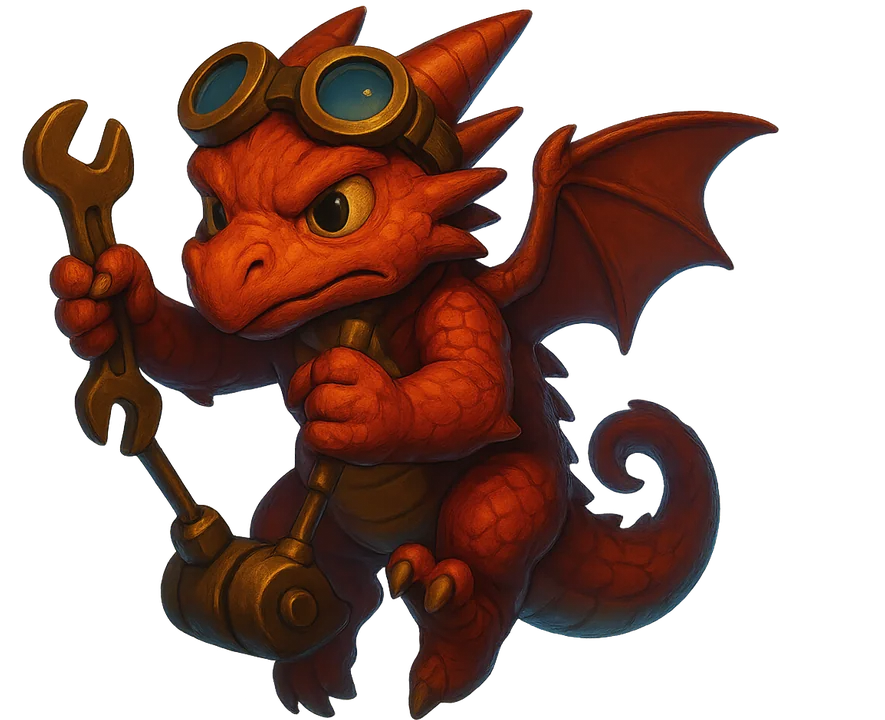
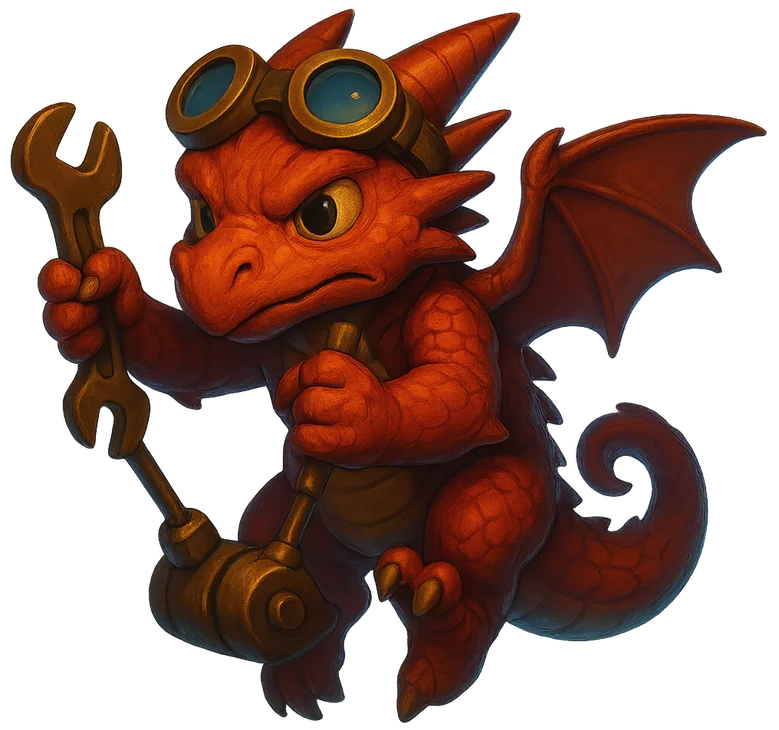
Hoardling: build 131a6abadc

diff --git a/hoardling/game.js b/hoardling/game.js
@@ -1979,6 +1979,14 @@
       // whole dragon was repainted ~40% brighter. They are in
       // art-src/wick_poses/ and did not ship.
       hero_man:  'art/hero_man.png',
+      // WING FRAMES for the manning flap. Generated by EDITING hero_man
+      // itself, so body, wrench, lean and lighting are identical between
+      // them and only the wings move -- then registered onto it (foot drift
+      // 0.0px). Three frames cycled is a flap; scaling one painted sprite
+      // non-uniformly is a squash, which is what shipped first and what
+      // VANUS rejected: "he looks like he's being squashed".
+      hero_man_dn: 'art/hero_man_dn.png',
+      hero_man_up: 'art/hero_man_up.png',
       hero_title: 'art/hero_title.png',
       t_mimic:   'art/tower_mimic.png',
       t_ballista:'art/tower_ballista.png',
@@ -3946,7 +3954,14 @@
       if (raw - dmg >= 2) Sfx.play('shave', e.id, { gain: 0.75, pri: 1 });
     }
     e.hp -= dmg;
-    e.flashT = 0.1;                       // white-flash + pop, read by the renderer only
+    // DO NOT STACK, AND KEEP IT SHORT. This reset to 0.1 on EVERY damage
+    // instance, and the renderer drew it at alpha min(1, flashT*9) = 0.9 white
+    // with a 9% size pop. A raider inside eight machines takes several hits a
+    // second, so it never stopped flashing -- VANUS: "the enemies as well,
+    // which is flashing and looks broken". A hit should punctuate, not strobe:
+    // max() rather than assign so rapid hits cannot re-arm a flash already
+    // running, and it is shorter and much softer below.
+    e.flashT = Math.max(e.flashT, 0.07);
     if (e.hp <= 0 && !e._counted) {
       e._counted = true;
       var idx = this.enemies.indexOf(e);
@@ -5796,7 +5811,7 @@
         // instant he becomes a target worth chasing
         face = -flip * Math.cos(Math.min(1, gg / 0.24) * Math.PI);
       }
-      if (e.flashT > 0) squash *= 1 + e.flashT * 0.9;                 // impact pop
+      if (e.flashT > 0) squash *= 1 + e.flashT * 0.35;                // impact pop, halved
       if (e.fleeing) hop *= 1 - 0.30 * Math.min(1, e.stolen / 8);     // laden: barely leaves the ground
       // BEAT 1b — the rear-back wind-up over the last 26 units before the hoard
       var lean = 0;
@@ -5830,7 +5845,7 @@
       }
       if (e.flashT > 0) {                       // white-flash: re-draw lighter
         ctx.globalCompositeOperation = 'lighter';
-        ctx.globalAlpha = Math.min(1, e.flashT * 9);
+        ctx.globalAlpha = Math.min(0.45, e.flashT * 5);   // a tint, not a strobe
         ctx.drawImage(img, -w0 / 2, -hh2, w0, hh2);
         ctx.globalAlpha = 1;
         ctx.globalCompositeOperation = 'source-over';
@@ -6010,9 +6025,21 @@
     var goingAway = hMoving2 && hdy2 < -Math.abs(hdx2) * 0.7;   // mostly up-screen
     // He is always drawn now -- a manned frame with no dragon in it was only
     // ever possible because the plate could be missing.
-    var himg = (h.manned && ART.images.hero_man) ? ART.images.hero_man
-             : (goingAway && !h.manned && ART.images.hero_back) ? ART.images.hero_back
-             : ART.images.hero;
+    // THE FLAP. Four slots on the wingbeat -- down, mid, up, mid -- so the
+    // cycle is symmetric and never snaps between the extremes. Falls back to
+    // the mid plate if a wing frame has not decoded yet, so a slow load shows a
+    // still dragon rather than a missing one.
+    var himg;
+    if (h.manned && ART.images.hero_man) {
+      var wph = (this.worldT * 7.4) % 6.283;
+      var wdn = ART.images.hero_man_dn, wup = ART.images.hero_man_up;
+      himg = wph < 1.571 ? (wdn || ART.images.hero_man)
+           : wph < 3.142 ? ART.images.hero_man
+           : wph < 4.712 ? (wup || ART.images.hero_man)
+           : ART.images.hero_man;
+    } else {
+      himg = (goingAway && ART.images.hero_back) ? ART.images.hero_back : ART.images.hero;
+    }
     if (himg) {
       // hover bob + sway; face the direction he's headed
       var ht = this.worldT;
@@ -6051,7 +6078,7 @@
       // is faked the way a two-frame cycle does it: the span widens on the
       // downstroke and he RISES on it, i.e. the vertical is 90 degrees out of
       // phase with the span. In phase it reads as a pulsing balloon.
-      var flapF = mnt ? 6.6 : 9.2;
+      var flapF = mnt ? 7.4 : 9.2;      // matches the wing-frame cycle above
       var flap  = mnt ? Math.sin(ht * flapF) : 0;          // wingbeat: AIR ONLY
       var flapA = mnt ? 0.055 : 0;                         // wing SPAN, x
       var rise  = mnt ? Math.cos(ht * flapF)               // hover, out of phase
@@ -6075,8 +6102,14 @@
       // unrelated frequency is most of what read as drifting.
       ctx.rotate(flap * 0.028 + (hmoving && !mnt ? -hflip * 0.055 : 0)
                  + this._heroFace * kick * 0.22);
-      ctx.scale(hflip * (2 - hsq) * (1 + kick * 0.10) * (1 + flapA * flap),
-                hsq * (1 + kick * 0.06) * (1 - flapA * 0.35 * flap));
+      // NO NON-UNIFORM FLAP SCALE. Widening X while narrowing Y is how you fake
+      // a wingbeat on a SHAPE; on a painted character it is just squashing, and
+      // it was compounding with the (2-hsq)/hsq breathing pair on two unrelated
+      // rhythms. VANUS: "he looks like he's being squashed and around doesn't
+      // look like he's actually flying. It just looks weird." A real flap needs
+      // real wing frames, which is what ART.images.hero_man_up/_dn are for --
+      // the body is identical between them and only the wings move.
+      ctx.scale(hflip * (2 - hsq) * (1 + kick * 0.10), hsq * (1 + kick * 0.06));
       ctx.drawImage(himg, -hw0 / 2, -hh0, hw0, hh0);
       // THE MOUTH OPENS. The painted plate has a closed muzzle and there is no
       // open-mouthed variant, so the jaw is drawn: a dark throat wedge at the

diff --git a/hoardling/index.html b/hoardling/index.html
@@ -9,9 +9,9 @@
   <title>Hoardling</title>
   <meta name="theme-color" content="#17100e">
   <!-- installable PWA: "Add to Home Screen" gives a fullscreen portrait app -->
-  <link rel="manifest" href="manifest.json?v=7795d754e5">
-  <link rel="icon" type="image/png" sizes="192x192" href="art/icon-192.png?v=7795d754e5">
-  <link rel="apple-touch-icon" href="art/icon-180.png?v=7795d754e5">
+  <link rel="manifest" href="manifest.json?v=131a6abadc">
+  <link rel="icon" type="image/png" sizes="192x192" href="art/icon-192.png?v=131a6abadc">
+  <link rel="apple-touch-icon" href="art/icon-180.png?v=131a6abadc">
   <meta name="apple-mobile-web-app-capable" content="yes">
   <meta name="apple-mobile-web-app-status-bar-style" content="black-translucent">
   <meta name="apple-mobile-web-app-title" content="Hoardling">
@@ -48,7 +48,7 @@
     @media (prefers-reduced-motion:reduce){
       #boot-ember{display:none}#boot-fill{transition:none}#boot{transition:none}}
   </style>
-  <link rel="stylesheet" href="style.css?v=7795d754e5">
+  <link rel="stylesheet" href="style.css?v=131a6abadc">
 </head>
 <body>
   <div id="game-wrap">
@@ -69,9 +69,9 @@
     <div id="boot-note">stoking the forge</div>
   </div>
   <!-- optional leaderboard config; a 404 here is fine (board stays off) -->
-  <script>window.__BUILD__="7795d754e5";window.__ART_EXT__="webp";</script>
+  <script>window.__BUILD__="131a6abadc";window.__ART_EXT__="webp";</script>
   <script>(function(){var B=window.__BUILD__;function chk(){fetch("build.txt?ts="+Date.now(),{cache:"no-store"}).then(function(r){return r.ok?r.text():""}).then(function(t){t=(t||"").trim();if(!t||t===B)return;try{if(sessionStorage.getItem("hl.rl")===t)return;sessionStorage.setItem("hl.rl",t);}catch(e){}location.reload();}).catch(function(){});}chk();document.addEventListener("visibilitychange",function(){if(!document.hidden)chk();});})();</script>
-  <script src="lb-config.js?v=7795d754e5"></script>
-  <script src="game.js?v=7795d754e5" defer></script>
+  <script src="lb-config.js?v=131a6abadc"></script>
+  <script src="game.js?v=131a6abadc" defer></script>
 </body>
 </html>
